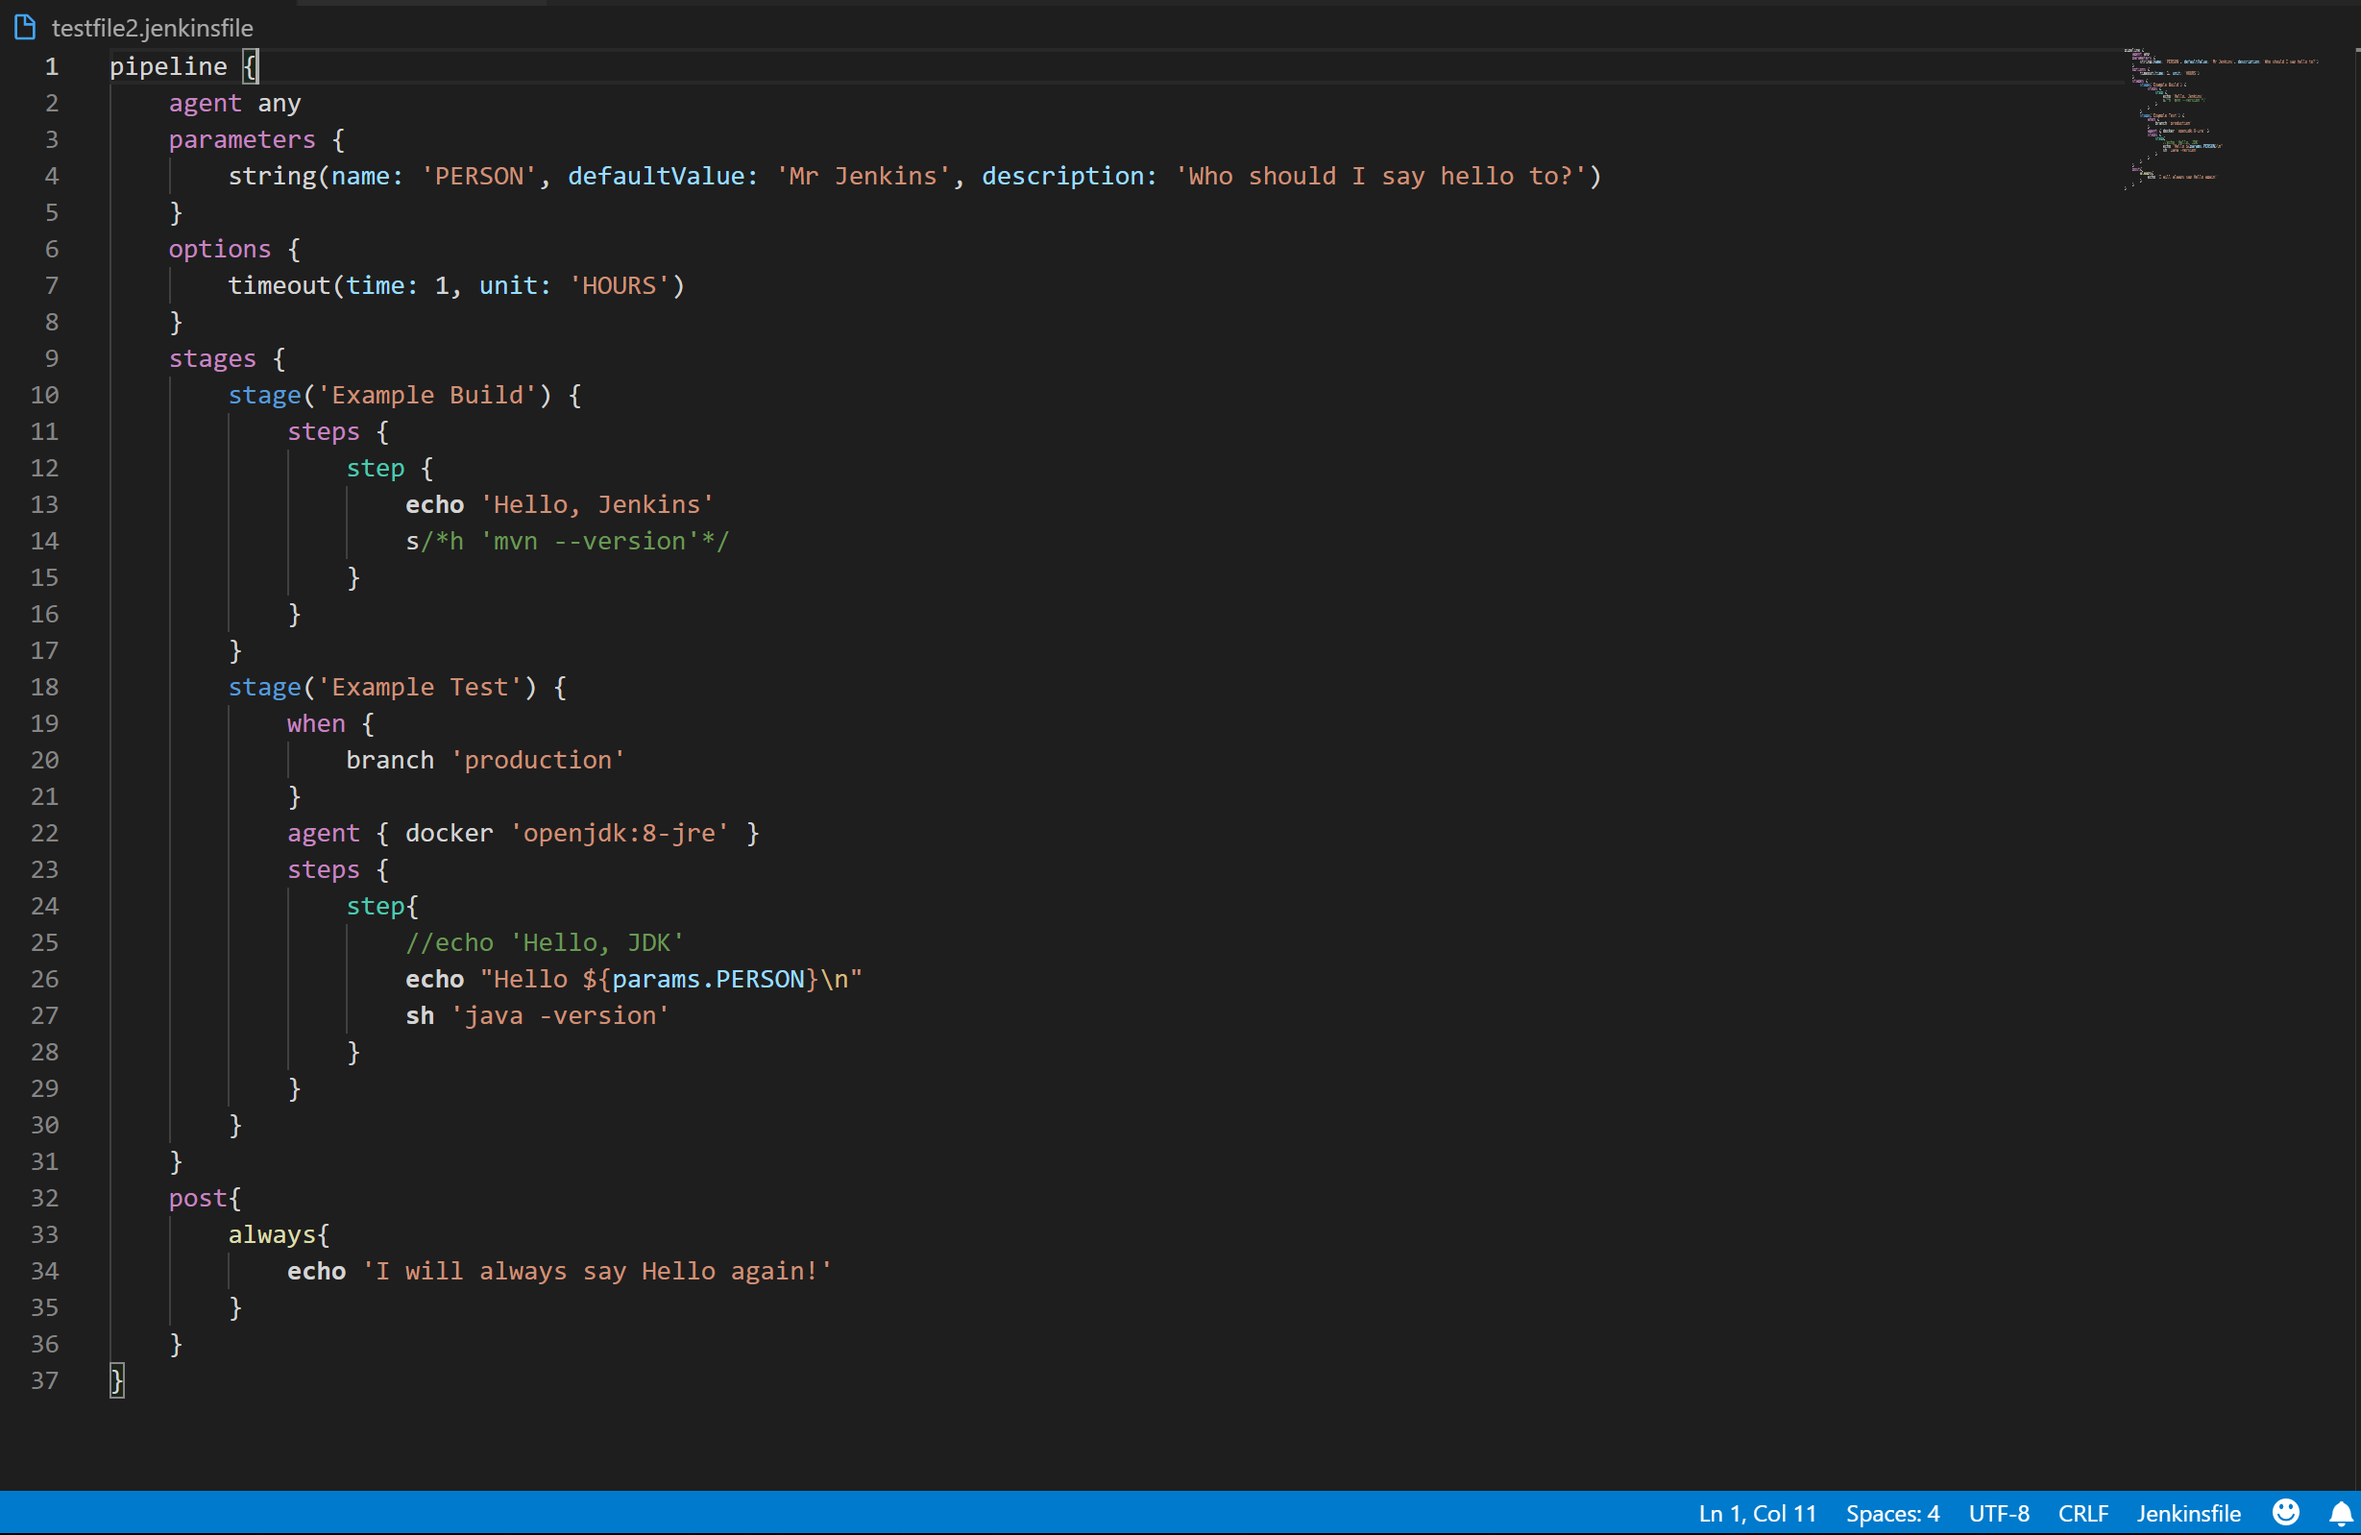
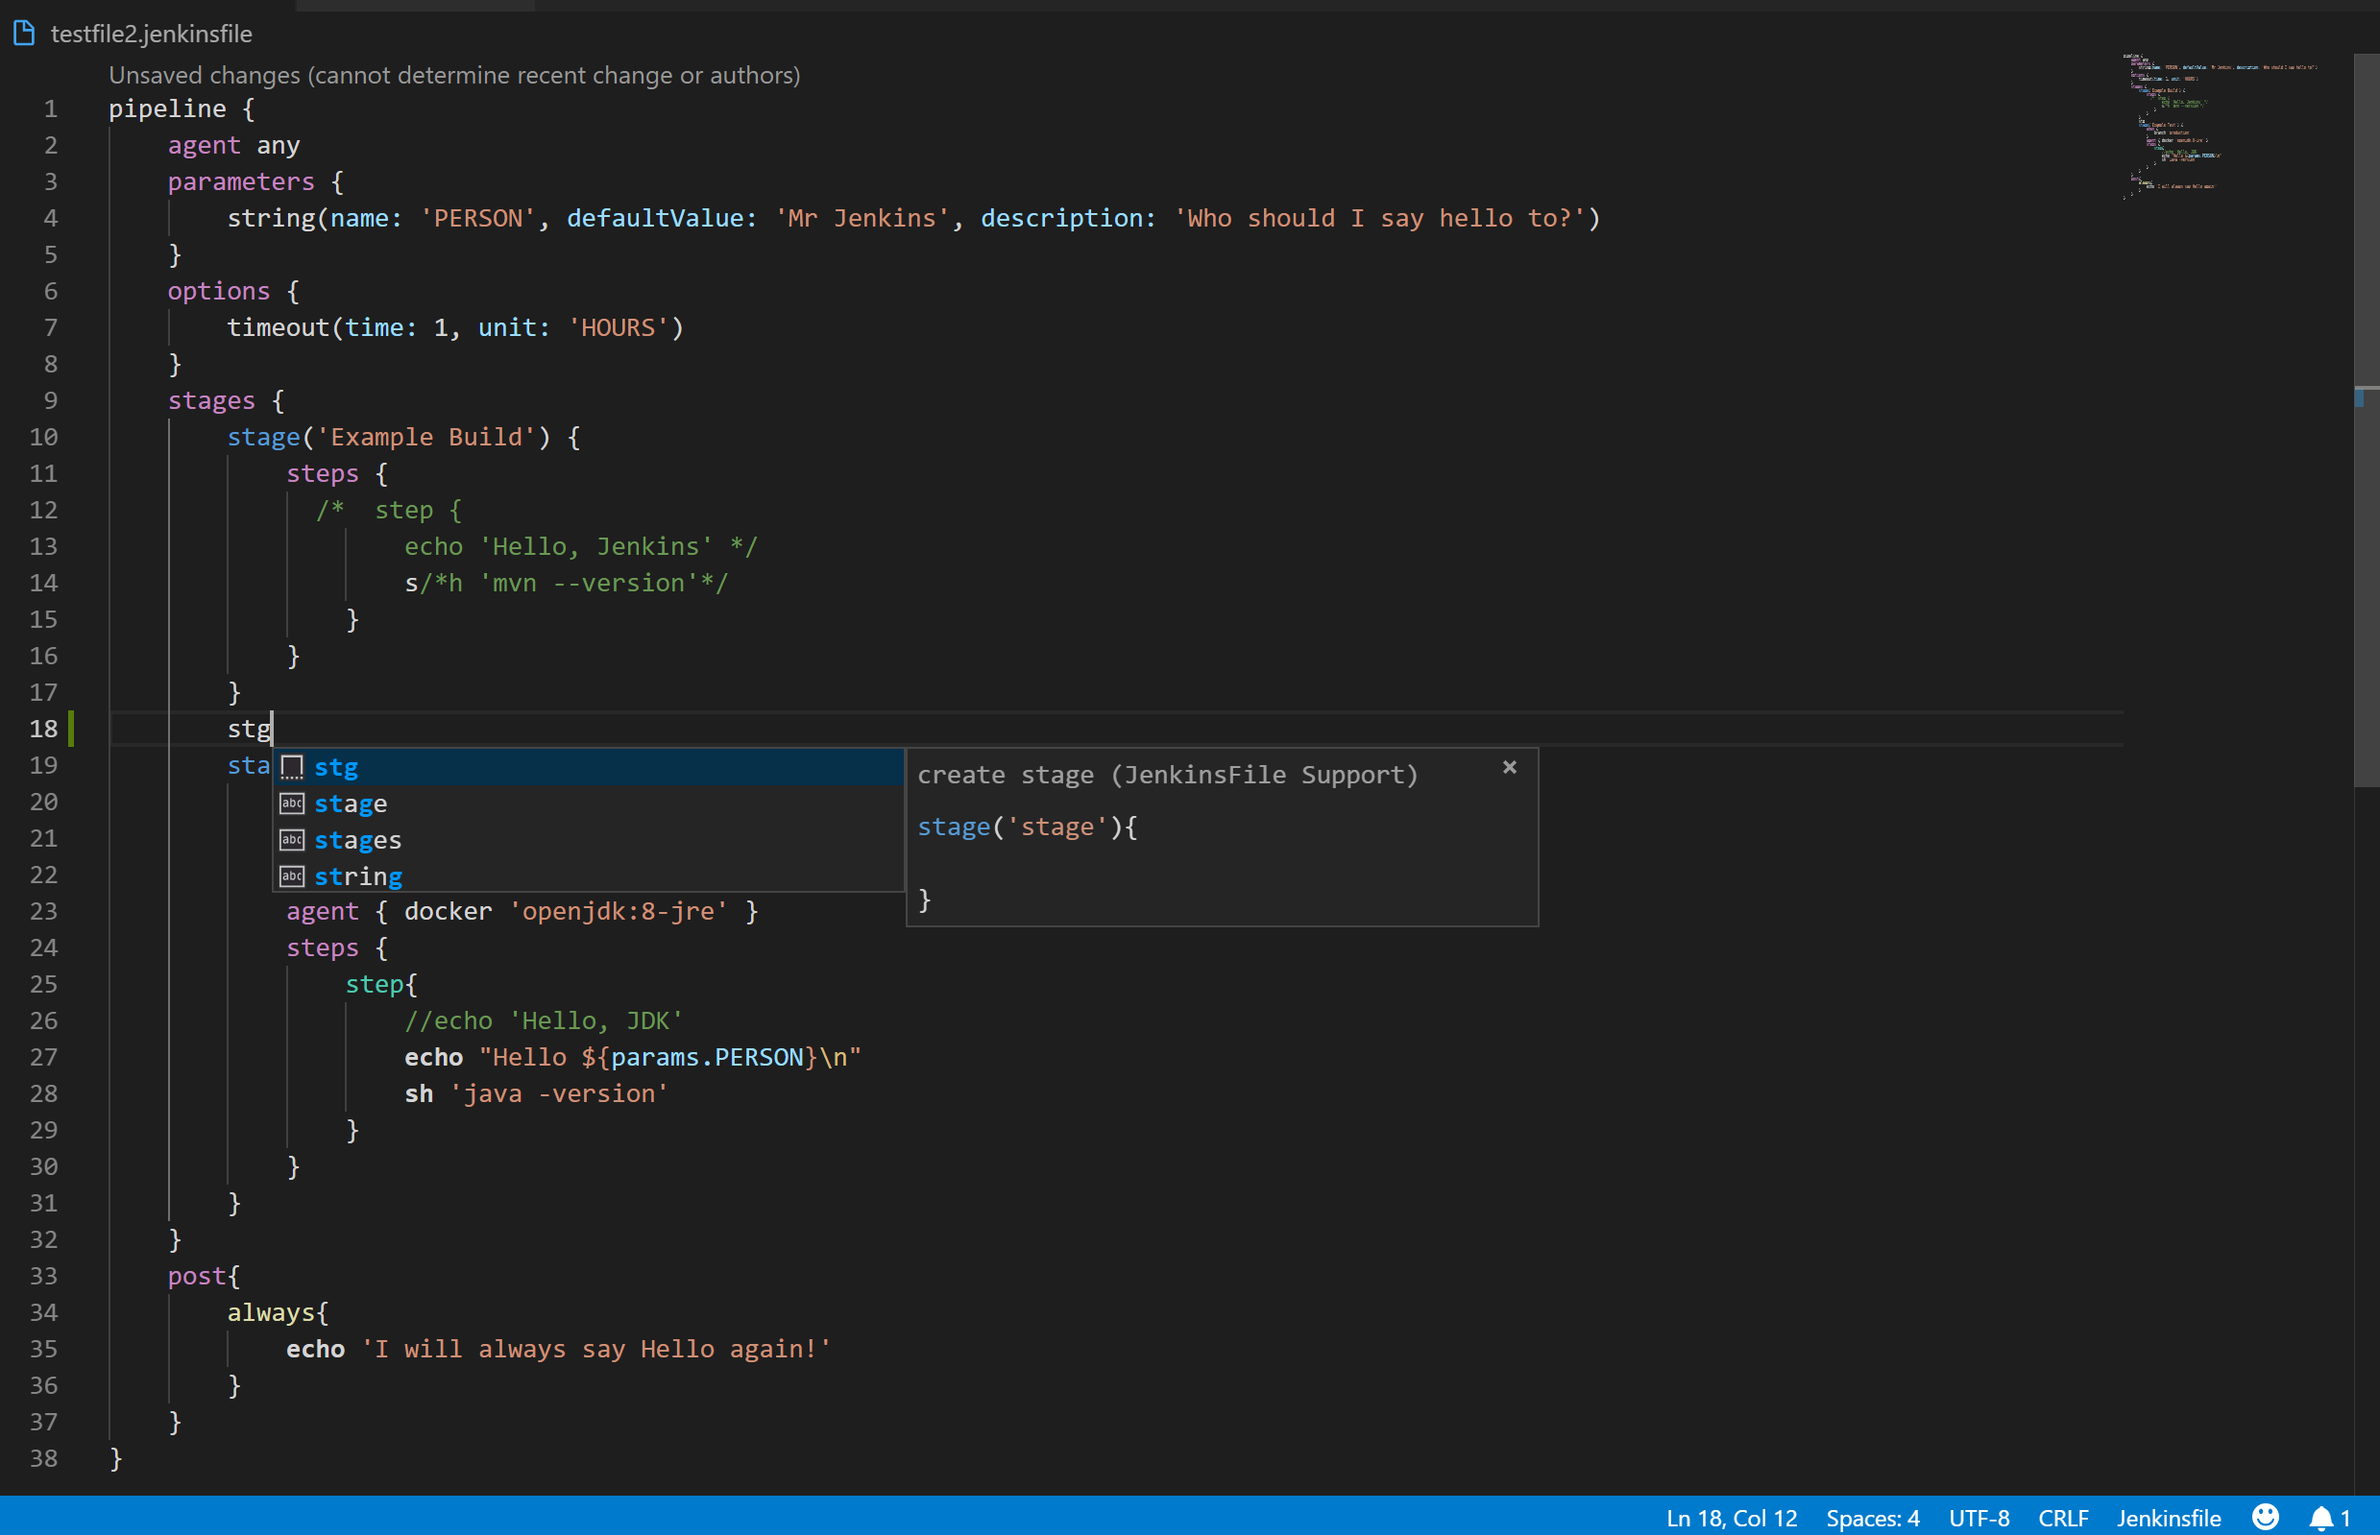
update files to v0.2.0

diff --git a/CHANGELOG.md b/CHANGELOG.md
@@ -4,14 +4,16 @@ All notable changes to the "jenkinsfile-support" extension will be documented in
 Check [Keep a Changelog](http://keepachangelog.com/) for recommendations on how to structure this file.
 
 ## [Unreleased]
+### Empty
+
+## [0.2.0] - 2018-10-18
 ### Added
 - multiline comments
 - tmp, stg, stp snippets
-
-## [0.1.2] - 2018-10-24
+## [0.1.2] - 2018-10-14
 ### Fixed
 - aligning versions
-## [0.1.1] - 2018-10-24
+## [0.1.1] - 2018-10-14
 ### Fixed
 - fix readme image path
 ## [0.1.0] - 2018-10-14

diff --git a/README.md b/README.md
@@ -3,10 +3,14 @@
 
 Extension gives user basic jenkinsfile support.
 
-* syntax highlighting 
+* syntax highlighting
+* snippets
   
 ![Functionality](images/functionality.png)
 ## Release Notes
+### 0.2.0
+* multiline comments
+* tmp, stg, stp snippets
 ### 0.1.2
 * aligning versions
 ### 0.1.1
